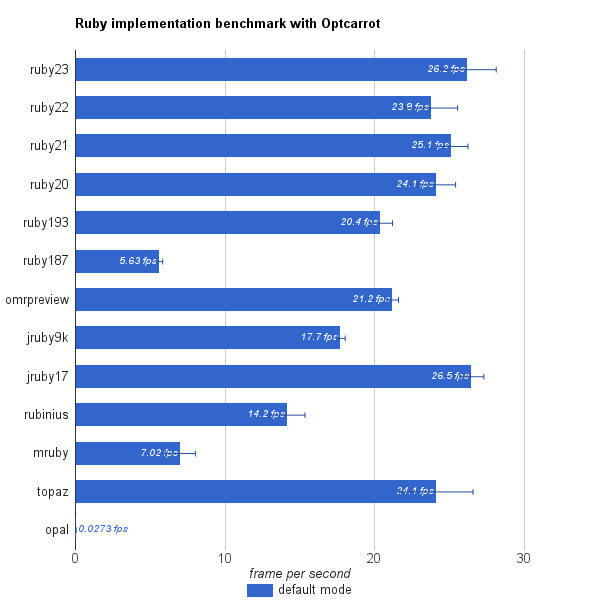
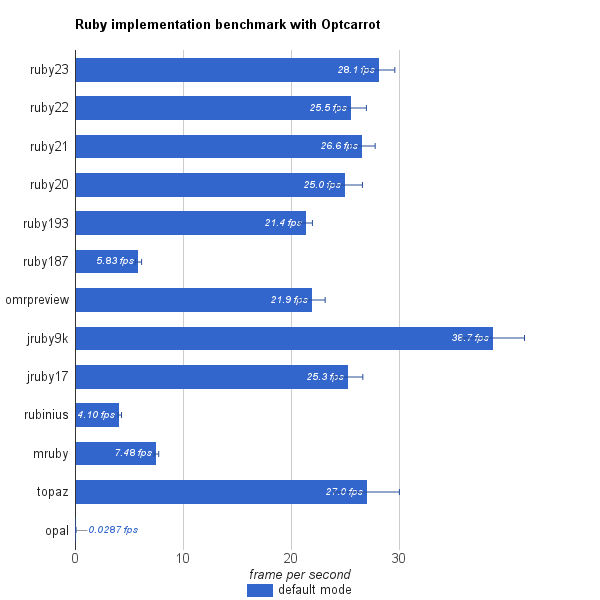
Update benchmark result.

diff --git a/doc/benchmark.md b/doc/benchmark.md
@@ -15,22 +15,22 @@
 
 ## Ruby implementations
 
-* ruby23: `ruby 2.3.0p0 (2015-12-25 revision 53290) [x86_64-linux]`
-* ruby22: `ruby 2.2.4p230 (2015-12-16 revision 53155) [x86_64-linux]`
-* ruby21: `ruby 2.1.8p440 (2015-12-16 revision 53160) [x86_64-linux]`
+* ruby23: `ruby 2.3.1p112 (2016-04-26 revision 54768) [x86_64-linux]`
+* ruby22: `ruby 2.2.5p319 (2016-04-26 revision 54774) [x86_64-linux]`
+* ruby21: `ruby 2.1.9p490 (2016-03-30 revision 54437) [x86_64-linux]`
 * ruby20: `ruby 2.0.0p648 (2015-12-16 revision 53162) [x86_64-linux]`
 * ruby193: `ruby 1.9.3p551 (2014-11-13 revision 48407) [x86_64-linux]`
 * ruby187: `ruby 1.8.7 (2013-06-27 patchlevel 374) [x86_64-linux]`
 
-* omrpreview: `ruby 2.2.3p97 (OMR Preview r1) (2015-04-14) [x86_64-linux]`
+* omrpreview: `ruby 2.2.5p285 (Eclipse OMR Preview r1) (2016-03-29) [x86_64-linux]`
   * `OMR_JIT_OPTIONS='-Xjit'` is specified.
 
-* jruby9k: `jruby 9.0.5.0 (2.2.3) 2016-01-26 7bee00d OpenJDK 64-Bit Server VM 25.72-b15 on 1.8.0_72-internal-b15 +indy +jit [linux-amd64]`
+* jruby9k: `jruby 9.1.0.0 (2.3.0) 2016-05-02 a633c63 Java HotSpot(TM) 64-Bit Server VM 25.91-b14 on 1.8.0_91-b14 +indy +jit [linux-x86_64]`
 
-* jruby17: `jruby 1.7.24 (1.9.3p551) 2016-01-20 bd68d85 on OpenJDK 64-Bit Server VM 1.8.0_72-internal-b15 +indy +jit [linux-amd64]`
+* jruby17: `jruby 1.7.25 (1.9.3p551) 2016-04-13 867cb81 on Java HotSpot(TM) 64-Bit Server VM 1.8.0_91-b14 +indy +jit [linux-amd64]`
   * `--server -Xcompile.invokedynamic=true` is specified.
 
-* rubinius: `rubinius 3.19 (2.2.2 1cc41ddc 2016-02-27 3.4 JI) [x86_64-linux-gnu]`
+* rubinius: `rubinius 3.33 (2.2.2 db6f477e 2016-05-23 3.6.0) [x86_64-linux-gnu]`
 
 * mruby: `mruby 1.2.0 (2015-11-17)`
   * Patched so that `Fixnum#/` returns an Integer instead of Float.
@@ -38,7 +38,7 @@
 * topaz: `topaz (ruby-1.9.3p125) (git rev 019daf0) [x86_64-linux]`
   * Failed to run the optimized mode maybe because the generated core is so large.
 
-* opal: `Opal v0.10.0.dev`
+* opal: `Opal v0.10.0.beta3`
   * Failed to run the default mode because of lack of Fiber.
 
 See [`tools/run-benchmark.rb`](../tools/run-benchmark.rb) for the actual commands.
